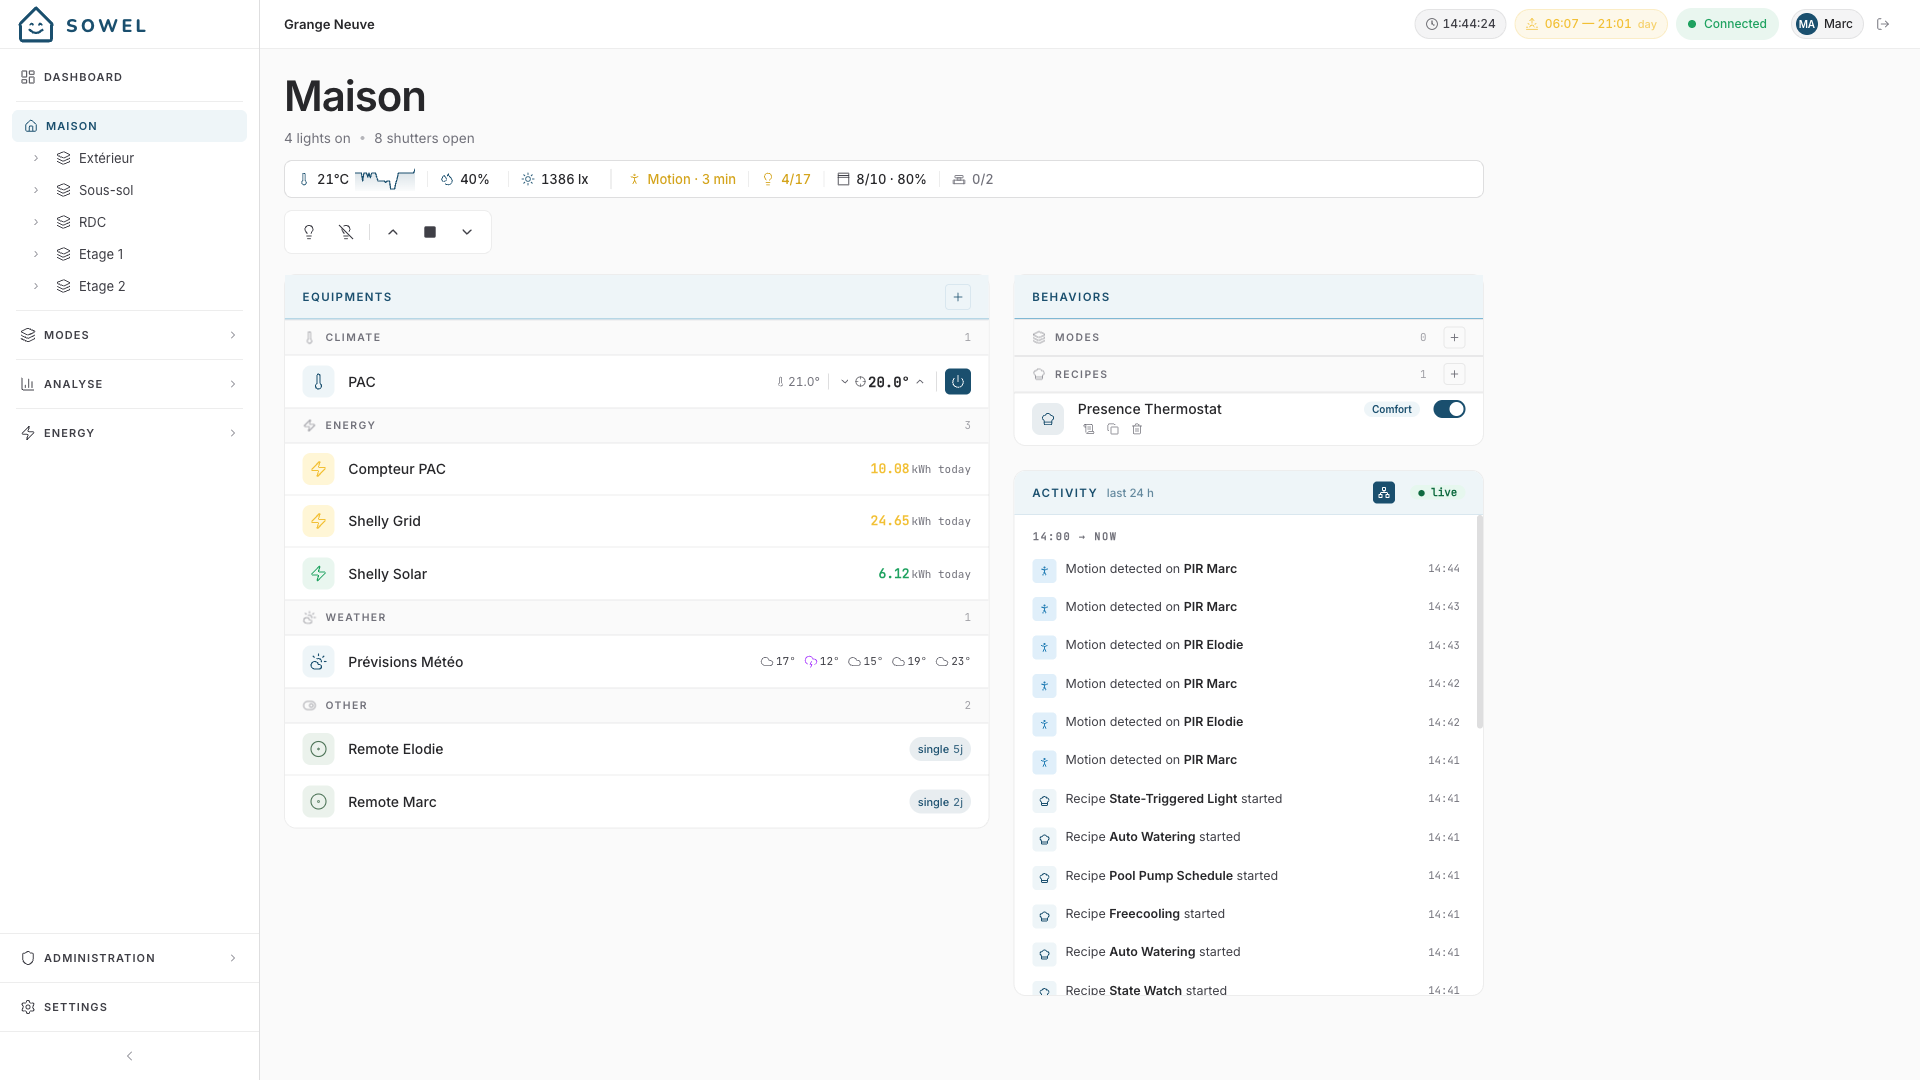
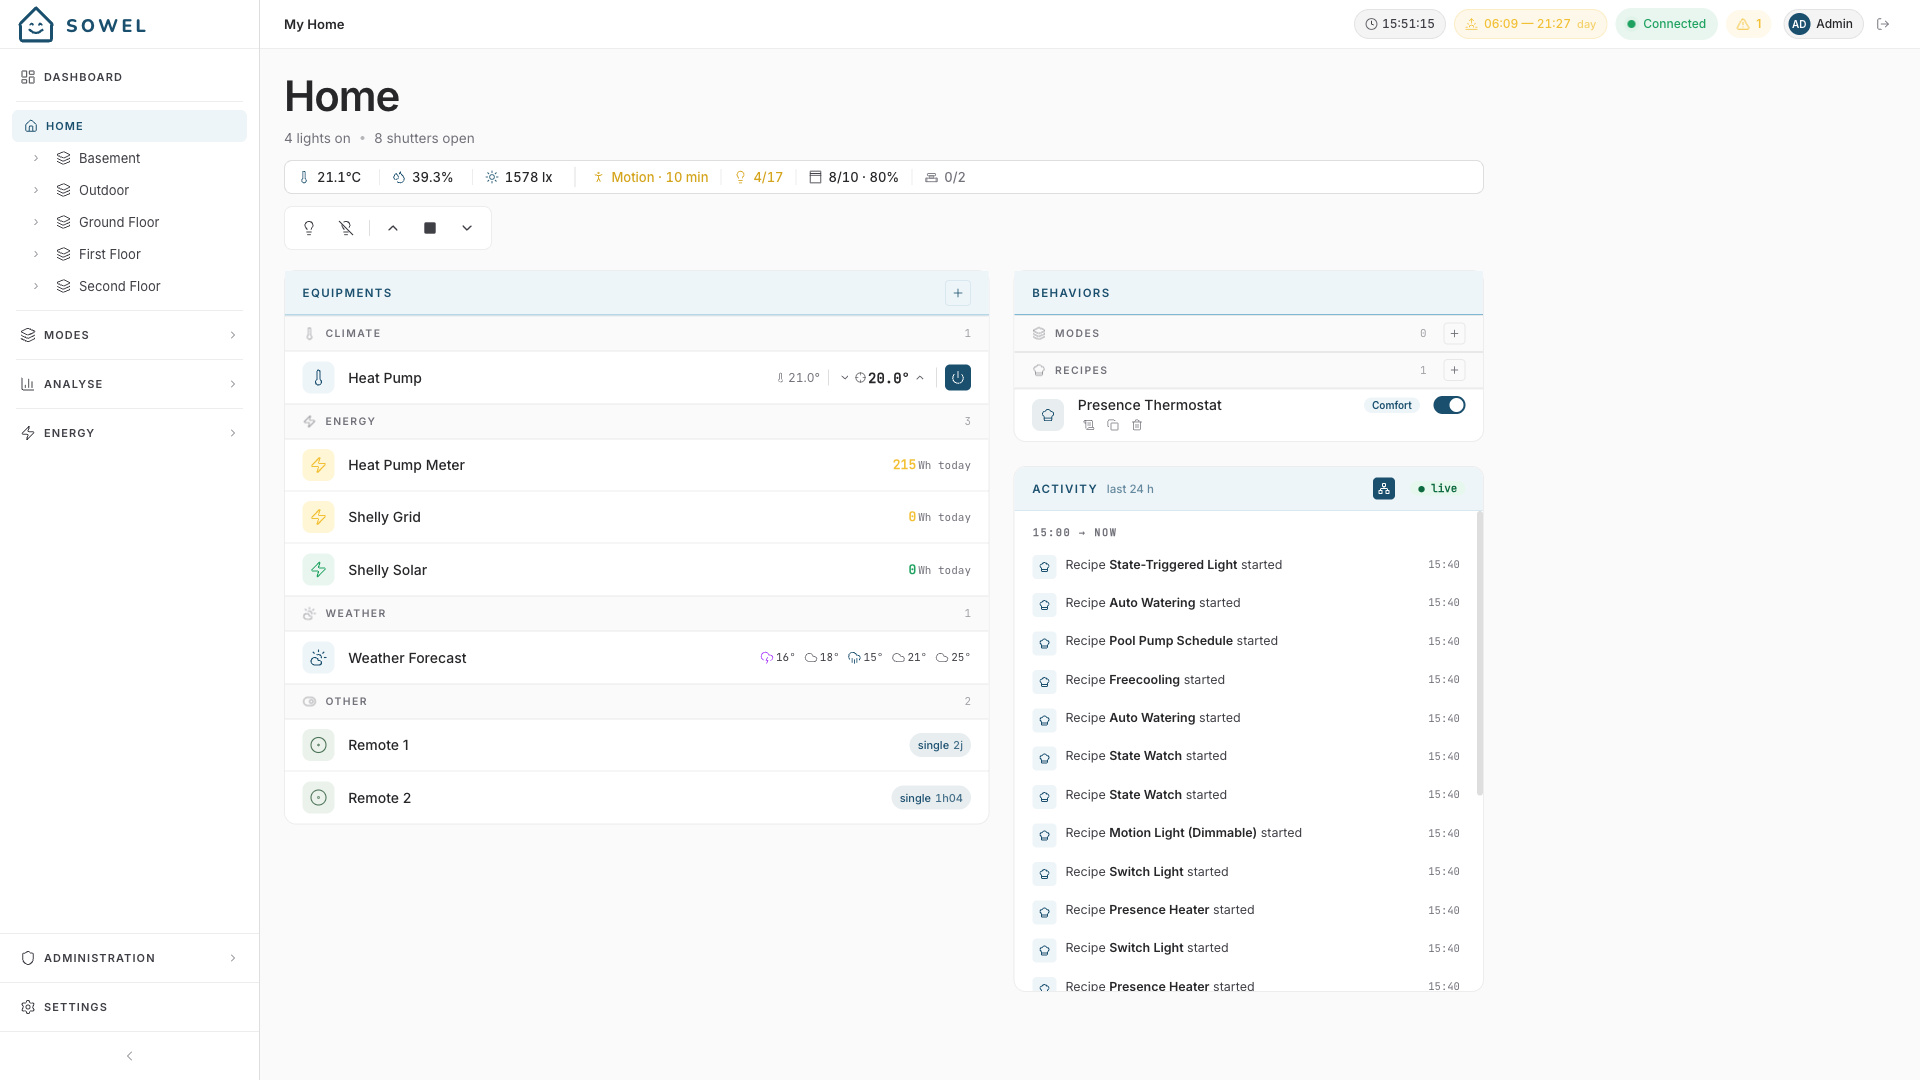
docs: add anonymized HD screenshots across user guide
Adds visual coverage to the user guide sections that lacked it:
dashboard, devices, equipments, modes (with calendar), recipes.

All shots are taken on the demo instance (domopi.local:3001) after
restoring the showroom fixture so personal data (family names,
specific zone topology) never leaks publicly. Activity feed shots
that previously leaked PIR Marc / Chambre Victor in PR #190 / #191
are also replaced with the anonymized versions ("Maison" / "PIR Marc"
becomes "Ma Maison" / "PIR Bureau" / etc.).

Screenshots
- dashboard-overview-{en,fr}.png — desktop dashboard with widget mix
- dashboard-edit-{en,fr}.png — edit mode with drag handles + actions
- devices-{en,fr}.png — Devices admin page
- equipments-{en,fr}.png — Equipments admin page
- modes-{en,fr}.png — Modes list with named profiles
- calendar-{en,fr}.png — Calendar profile with weekly slots
- activity-zone-view-{en,fr}.png — REPLACED with anonymized version
- activity-mobile-{en,fr}.png — REPLACED with anonymized version

Skill
- Update .claude/skills/update-docs/SKILL.md with the anonymization
  pipeline (build-fixtures.py + domopi.local restore + per-language
  shoot). Explicit rule: never shoot on prod, never use
  ./scripts/run-swap.sh local for screenshots (it kills prod).

diff --git a/.claude/skills/update-docs/SKILL.md b/.claude/skills/update-docs/SKILL.md
@@ -54,7 +54,51 @@ Screenshots live under `docs/screenshots/` and are referenced from `.md` files v
 2. **Show the surrounding context.** A reader landing on the page should understand where the feature lives in the UI. Capture the full zone view, not just one panel.
 3. **For mobile**, use a 390×844 viewport (iPhone 13) with `fullPage: true`. The page is allowed to be tall (a scrollshot is fine).
 4. **Hide live noise** before shooting: pause polling tasks, dismiss toasts, ensure the WS connection pill reads `● live` (not `○ offline`).
-5. **Use the demo fixture** (`./scripts/run-swap.sh local` + showroom fixture) so zone/equipment names are neutral and the same across languages.
+5. **Never shoot on prod** (`sowelox` / `192.168.0.230:3000`) and **never use `./scripts/run-swap.sh local`** for screenshots:
+   - Prod data leaks family names (PIR Marc, Chambre Victor, etc.) and the actual home topology into public docs.
+   - `run-swap.sh local` does `ssh sowelox 'docker stop sowel'` over SSH, which crashes the user's real home automation.
+   - Use the demo instance and the anonymized showroom fixture instead — see "Screenshot pipeline" below.
+
+### Screenshot pipeline (anonymized via demo instance)
+
+The demo instance lives on `domopi.local:3001` (Raspberry Pi). Two stages:
+
+**1. Build anonymized fixtures from a fresh prod backup**
+
+```bash
+# (a) Download a prod backup
+python3 -c "
+import urllib.request, json
+req = urllib.request.Request('http://192.168.0.230:3000/api/v1/auth/login',
+  data=json.dumps({'username':'admin','password':'<see reference_sowel_access memory>'}).encode(),
+  headers={'Content-Type':'application/json'}, method='POST')
+tok = json.loads(urllib.request.urlopen(req).read())['accessToken']
+req = urllib.request.Request('http://192.168.0.230:3000/api/v1/backup',
+  headers={'Authorization':'Bearer '+tok})
+open('/tmp/prod-backup.zip','wb').write(urllib.request.urlopen(req).read())
+"
+
+# (b) Run the anonymization pipeline
+python3 scripts/doc/build-fixtures.py /tmp/prod-backup.zip
+# Outputs /tmp/showroom-fr.zip and /tmp/showroom-en.zip with rename + translate maps applied
+```
+
+The script uses `ZONE_RENAME_FR`, `EQUIPMENT_RENAME_FR`, and the FR→EN `ZONE_TRANSLATE` / `EQUIPMENT_TRANSLATE` maps in `scripts/doc/build-fixtures.py`. If a new name appears that needs anonymization or translation, add it to the maps in the script first.
+
+**2. Deploy fixture to demo + shoot (per language)**
+
+```bash
+# Full reset of demo
+ssh mchacher@domopi.local 'cd /home/mchacher/sowel-demo && docker compose down -v && docker compose pull && docker compose up -d'
+# Wait for /api/v1/auth/status to respond
+# Setup first admin via POST /api/v1/auth/setup
+# Restore showroom-fr.zip via POST /api/v1/backup (multipart) — for FR shoot
+# Take FR screenshots on http://domopi.local:3001 (set localStorage sowel_language=fr, reload)
+# Restore showroom-en.zip via POST /api/v1/backup — for EN shoot
+# Take EN screenshots
+```
+
+Demo compose file: `/home/mchacher/sowel-demo/docker-compose.yml`. Keep `image: ghcr.io/mchacher/sowel:<version>` aligned with the prod release. Demo port 3001 maps to container 3000.
 
 ### Playwright MCP recipe (preferred)
 

diff --git a/docs/user/dashboard.fr.md b/docs/user/dashboard.fr.md
@@ -6,6 +6,8 @@ Le Tableau de bord est votre écran d'accueil personnalisé : une grille de widg
 
 Contrairement à la vue Accueil (organisée par zones), le Tableau de bord vous laisse choisir exactement ce que vous voulez voir, peu importe la pièce ou le type d'équipement. Vous pouvez placer les lumières de votre cuisine à côté de la température extérieure et du portail de garage, le tout sur un même écran.
 
+![Tableau de bord avec un mélange de widgets équipement et zone](../screenshots/dashboard-overview-fr.png)
+
 ## Types de widgets
 
 ### Widget d'équipement
@@ -67,6 +69,8 @@ Le mode édition se bascule avec l'icône crayon dans l'en-tête du tableau de b
 - Chaque widget affiche un bouton **suppression**
 - Les widgets peuvent être **glissés** pour être réordonnés
 - Cliquez sur la **coche** pour quitter le mode édition et enregistrer
+
+![Tableau de bord en mode édition : poignées de glisser-déposer, boutons supprimer, action Ajouter](../screenshots/dashboard-edit-fr.png)
 
 !!! tip
 Le tableau de bord est personnel : chaque utilisateur a sa propre disposition de widgets. Les utilisateurs admin et les utilisateurs réguliers voient leur propre tableau de bord.

diff --git a/docs/user/dashboard.md b/docs/user/dashboard.md
@@ -6,6 +6,8 @@ The Dashboard is your personalized home screen -- a customizable grid of widgets
 
 Unlike the Home view (which is organized by zones), the Dashboard lets you pick exactly what you want to see, regardless of room or equipment type. You might put your living room lights next to your outdoor temperature and your garage gate, all on one screen.
 
+![Dashboard with a mix of equipment and zone widgets](../screenshots/dashboard-overview-en.png)
+
 ## Widget types
 
 ### Equipment widget
@@ -67,6 +69,8 @@ Edit mode is toggled with the pencil icon in the dashboard header. When active:
 - Each widget shows a **delete** button
 - Widgets can be **dragged** to reorder
 - Click the **checkmark** to exit edit mode and save
+
+![Dashboard in edit mode — drag handles, delete buttons, Add widget action](../screenshots/dashboard-edit-en.png)
 
 !!! tip
 The dashboard is personal -- each user has their own widget layout. Admin and regular users see their own dashboards.

diff --git a/docs/user/modes.fr.md b/docs/user/modes.fr.md
@@ -17,6 +17,8 @@ Voyez les modes comme des préréglages pour toute votre maison. Au lieu d'étei
 
 Un seul mode peut être actif à la fois. L'activation d'un nouveau mode désactive le précédent.
 
+![Page Modes avec trois profils nommés et un toggle pour activer le mode courant](../screenshots/modes-fr.png)
+
 ## Créer un mode
 
 Allez dans **Administration > Modes** et cliquez sur **Ajouter un mode**.
@@ -87,6 +89,8 @@ Les modes peuvent être activés automatiquement selon une grille hebdomadaire. 
 ## Planification calendaire
 
 Le calendrier gère des **profils hebdomadaires** d'activation automatique de modes. C'est ainsi que vous automatisez votre routine quotidienne.
+
+![Page Calendrier montrant le profil actif et ses créneaux hebdomadaires](../screenshots/calendar-fr.png)
 
 ### Profils
 

diff --git a/docs/user/modes.md b/docs/user/modes.md
@@ -17,6 +17,8 @@ Think of modes as presets for your entire home. Instead of manually turning off 
 
 Only one mode can be active at a time. Activating a new mode deactivates the previous one.
 
+![Modes page with three named profiles and a toggle to activate the current mode](../screenshots/modes-en.png)
+
 ## Creating a mode
 
 Go to **Administration > Modes** and click **Add Mode**.
@@ -87,6 +89,8 @@ Modes can be activated automatically on a weekly schedule. See [Calendar schedul
 ## Calendar scheduling
 
 The calendar manages **weekly profiles** for automatic mode activation. This is how you automate your daily routine.
+
+![Calendar page showing the active profile and its weekly time slots](../screenshots/calendar-en.png)
 
 ### Profiles
 

diff --git a/docs/user/recipes.md b/docs/user/recipes.md
@@ -71,6 +71,10 @@ If a slot looks empty or wrong, the **Save** button stays disabled and the recip
 
 The instance starts as soon as you save. Toggle it on/off from the recipe list anytime. Open the instance to see its **log** -- a per-instance trace of what it has done and why.
 
+![Zone view showing the Behaviors panel — Modes and Recipes — alongside the live Activity feed](../screenshots/activity-zone-view-en.png)
+
+The zone view's **Behaviors** panel is where you toggle running recipes on the fly without going through the admin. The **Activity** panel on the right shows each recipe firing in real time.
+
 ---
 
 ## How recipes interact with [modes](modes.md)

diff --git a/docs/user/equipments.fr.md b/docs/user/equipments.fr.md
@@ -4,6 +4,8 @@ Les équipements sont le concept central de Sowel. Un équipement est une **unit
 
 **Un device est ce qui est sur le réseau, un équipement est ce qui est dans la pièce.** Vous ne pensez jamais au module variateur Zigbee installé derrière le mur, vous pensez aux lumières de votre cuisine.
 
+![Page admin Équipements regroupée par zone et par type](../screenshots/equipments-fr.png)
+
 ## Créer un équipement
 
 Allez dans **Administration > Équipements** et cliquez sur **Ajouter un équipement**.

diff --git a/docs/user/equipments.md b/docs/user/equipments.md
@@ -4,6 +4,8 @@ Equipments are the core concept in Sowel. An equipment is a **functional unit** 
 
 **A Device is what's on the network, an Equipment is what's in the room.** You never think about the Zigbee dimmer module installed behind the wall -- you think about your living room lights.
 
+![Equipments admin page grouped by zone and type](../screenshots/equipments-en.png)
+
 ## Creating an equipment
 
 Go to **Administration > Equipments** and click **Add Equipment**.

diff --git a/docs/user/devices.md b/docs/user/devices.md
@@ -6,6 +6,8 @@ Devices are everything wired to Sowel: a Zigbee bulb, a Shelly relay, a Netatmo 
 
 You will rarely manipulate devices directly -- they are the technical layer that everything else in Sowel sits on top of. But understanding what Sowel does to them is what explains why the rest works without glue code.
 
+![Devices admin page — auto-discovered hardware across integrations](../screenshots/devices-en.png)
+
 ---
 
 ## One data model for the whole house
